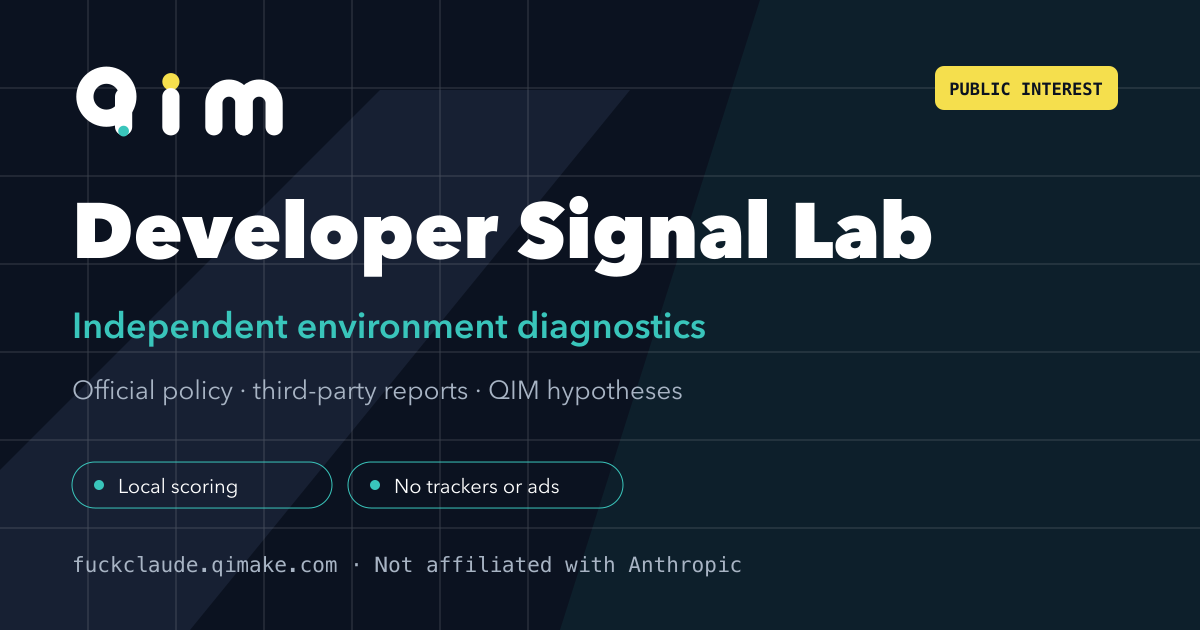
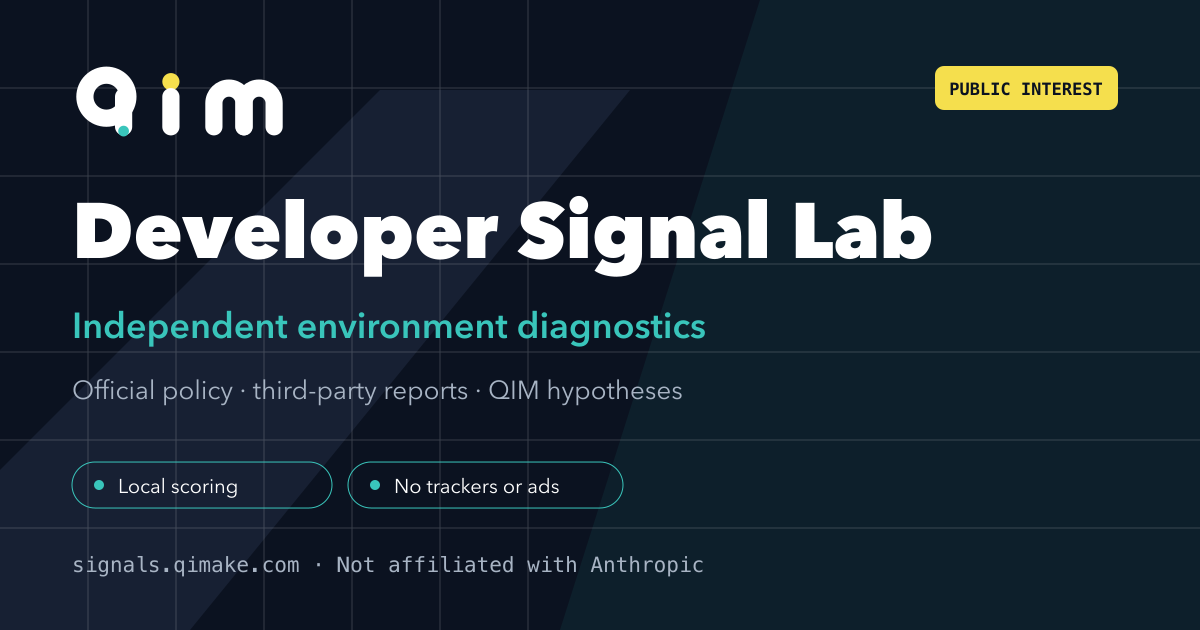
migrate public site to signals.qimake.com

Changed region(s): [[0.0617, 0.8746, 0.6167, 0.9048]]

diff --git a/src/scripts/share-card.ts b/src/scripts/share-card.ts
@@ -117,7 +117,7 @@ export async function renderResultCard(d: CardData): Promise<Blob | null> {
   ctx.textAlign = 'right';
   ctx.font = `500 24px ${SANS}`;
   ctx.fillStyle = C.muted2;
-  ctx.fillText('fuckclaude.qimake.com', SIZE - 80, headY + 1);
+  ctx.fillText('signals.qimake.com', SIZE - 80, headY + 1);
 
   // Title.
   ctx.textAlign = 'center';
@@ -190,8 +190,8 @@ export async function renderResultCard(d: CardData): Promise<Blob | null> {
   ctx.textAlign = 'center';
   ctx.fillText(
     d.lang === 'zh'
-      ? 'QIM 公益开发者项目 · fuckclaude.qimake.com'
-      : 'QIM public-interest developer project · fuckclaude.qimake.com',
+      ? 'QIM 公益开发者项目 · signals.qimake.com'
+      : 'QIM public-interest developer project · signals.qimake.com',
     SIZE / 2,
     SIZE - 68,
   );

diff --git a/src/pages/api/check.ts b/src/pages/api/check.ts
@@ -10,7 +10,7 @@
  *   - `user-agent`            — OS/vendor guess for the emoji signal
  *
  * Fonts (Chinese + vendor faces), Intl locale and WebRTC IP leak are
- * browser-only, so the score is computed over the measurable weight (62/100)
+ * browser-only, so the score is computed over the measurable weight (80/100)
  * and normalised to 0–100. It reuses the exact same pure scorers as the client
  * so results stay consistent.
  *
@@ -40,7 +40,7 @@ import { useTranslations, type Lang } from '../../i18n/ui';
 
 export const prerender = false;
 
-const SITE = 'https://fuckclaude.qimake.com';
+const SITE = 'https://signals.qimake.com';
 
 const CORS: Record<string, string> = {
   'Access-Control-Allow-Origin': SITE,

diff --git a/README.md b/README.md
@@ -2,7 +2,11 @@
 
 QIM public-interest deployment of the open-source
 [`LinXiaoTao/FuckClaude`](https://github.com/LinXiaoTao/FuckClaude) project:
-<https://fuckclaude.qimake.com>.
+<https://signals.qimake.com>.
+
+The former public address, <https://fuckclaude.qimake.com>, is retained only as
+a permanent, `noindex` redirect so existing links continue to work while QIM's
+neutral product identity remains the canonical source.
 
 The product identity is **QIM Developer Signal Lab**. Claude and Claude Code are
 referenced only to identify the service being discussed. QIM is independent and
@@ -97,6 +101,21 @@ Astro-generated Cloudflare configuration:
 ```bash
 pnpm exec wrangler deploy
 ```
+
+The main Worker keeps both custom domains during the migration window. After
+`signals.qimake.com` passes DNS, TLS, browser and API readback, verify and deploy
+the legacy redirect Worker:
+
+```bash
+pnpm test:redirect
+pnpm exec wrangler deploy -c wrangler.redirect.preview.jsonc
+pnpm exec wrangler deploy -c wrangler.redirect.jsonc
+```
+
+The legacy Worker Route runs before the old Custom Domain, returns a single-hop
+308 to the same path and query on `signals.qimake.com`, and adds
+`X-Robots-Tag: noindex, nofollow`. Keeping the old Custom Domain underneath
+preserves its managed DNS and TLS while making the redirect easy to roll back.
 
 ## Use and responsibility
 
